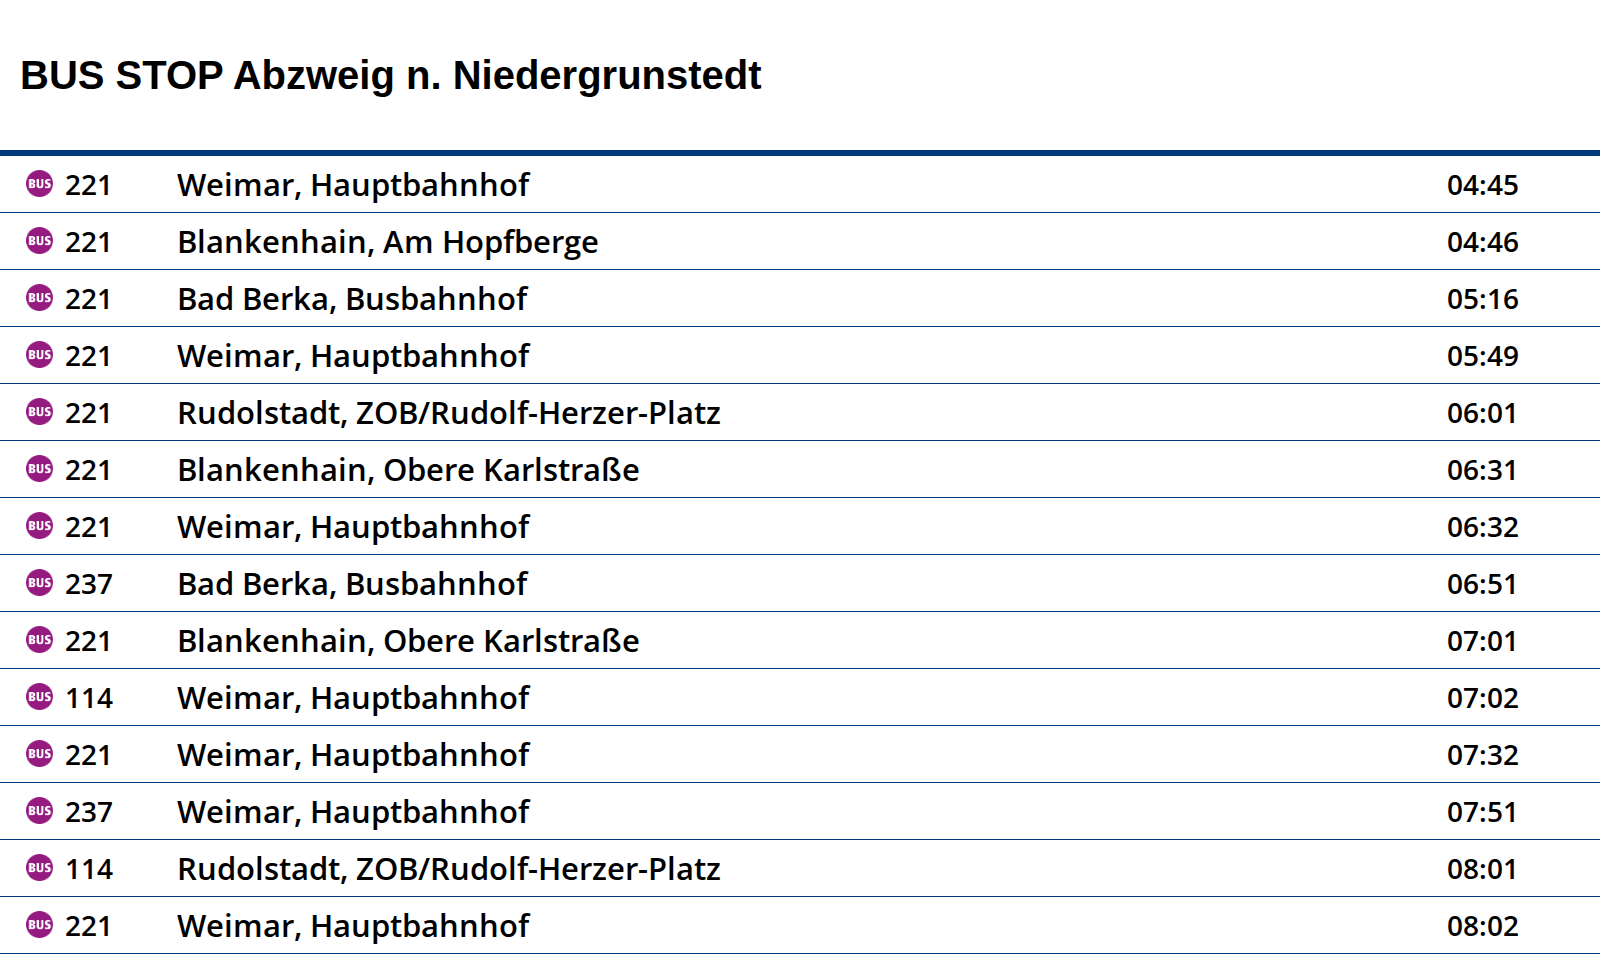
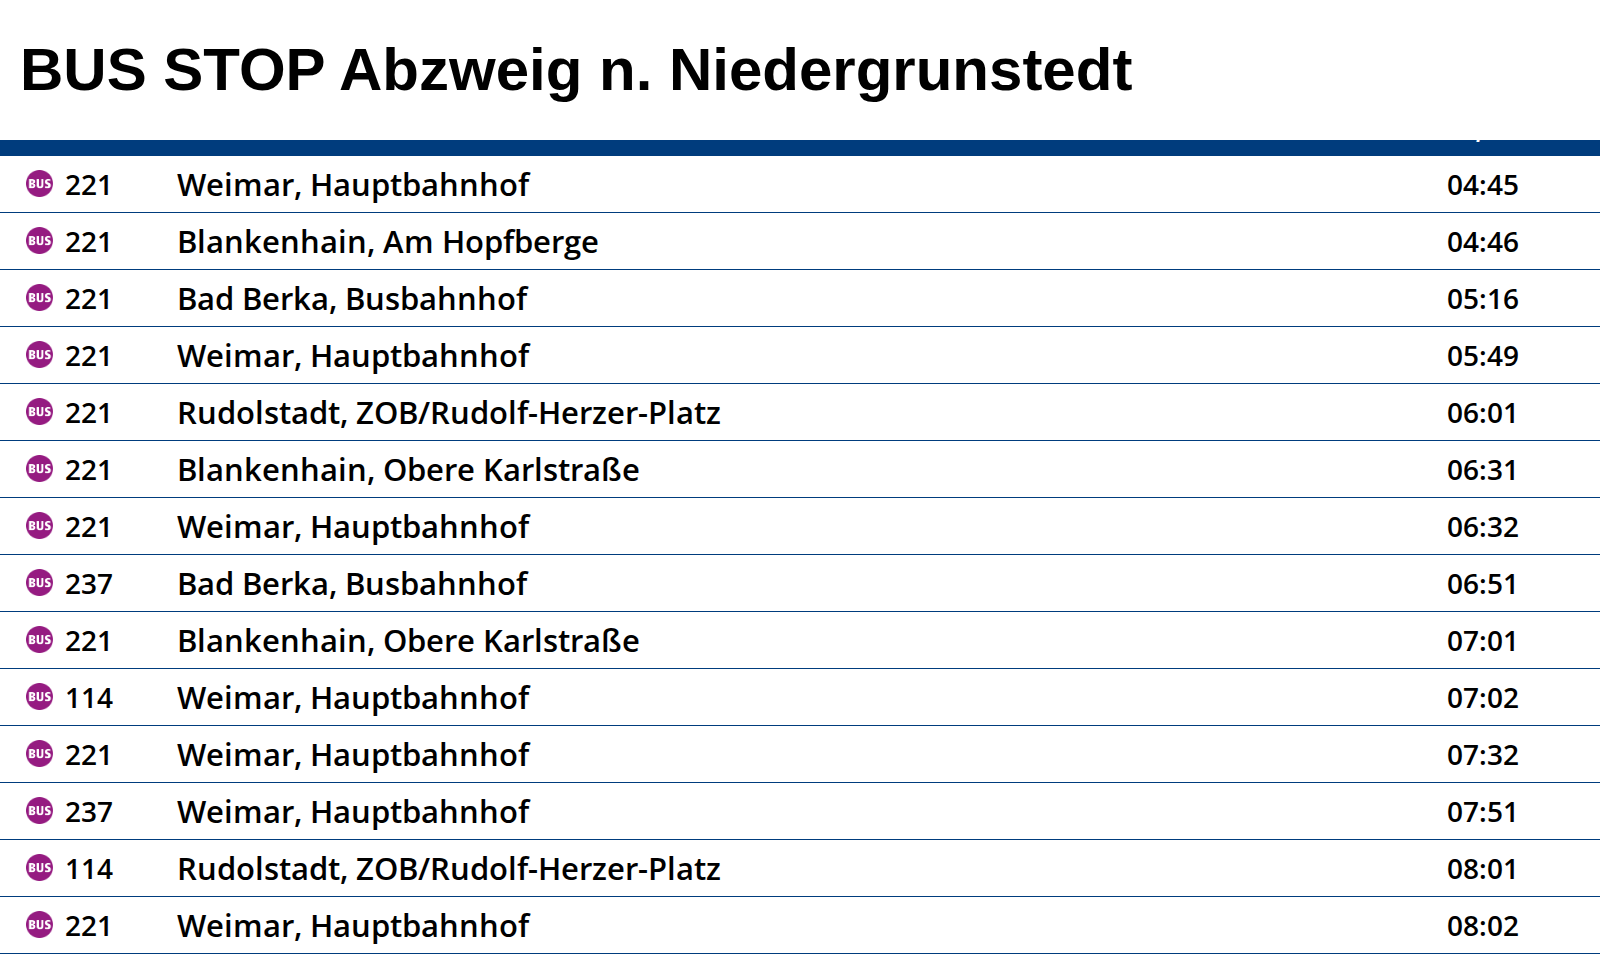
deploy: 8d0dfd2bf03f4afbc8a5393e3e5180f6c6e9b580

Changed region(s): [[0.0, 0.0312, 1.0, 0.1562]]

diff --git a/capture.js b/capture.js
@@ -8,10 +8,10 @@ const HEADER = {
 
   text: 'BUS STOP Abzweig n. Niedergrunstedt',
 
-  height: 150,              // Header height in px
+  height: 140,              // Header height in px
   background: '#FFFFFF',   // Header background
   textColor: '#000000',    // Text color
-  fontSize: 40             // Text size in px
+  fontSize: 60             // Text size in px
 };
 
 
